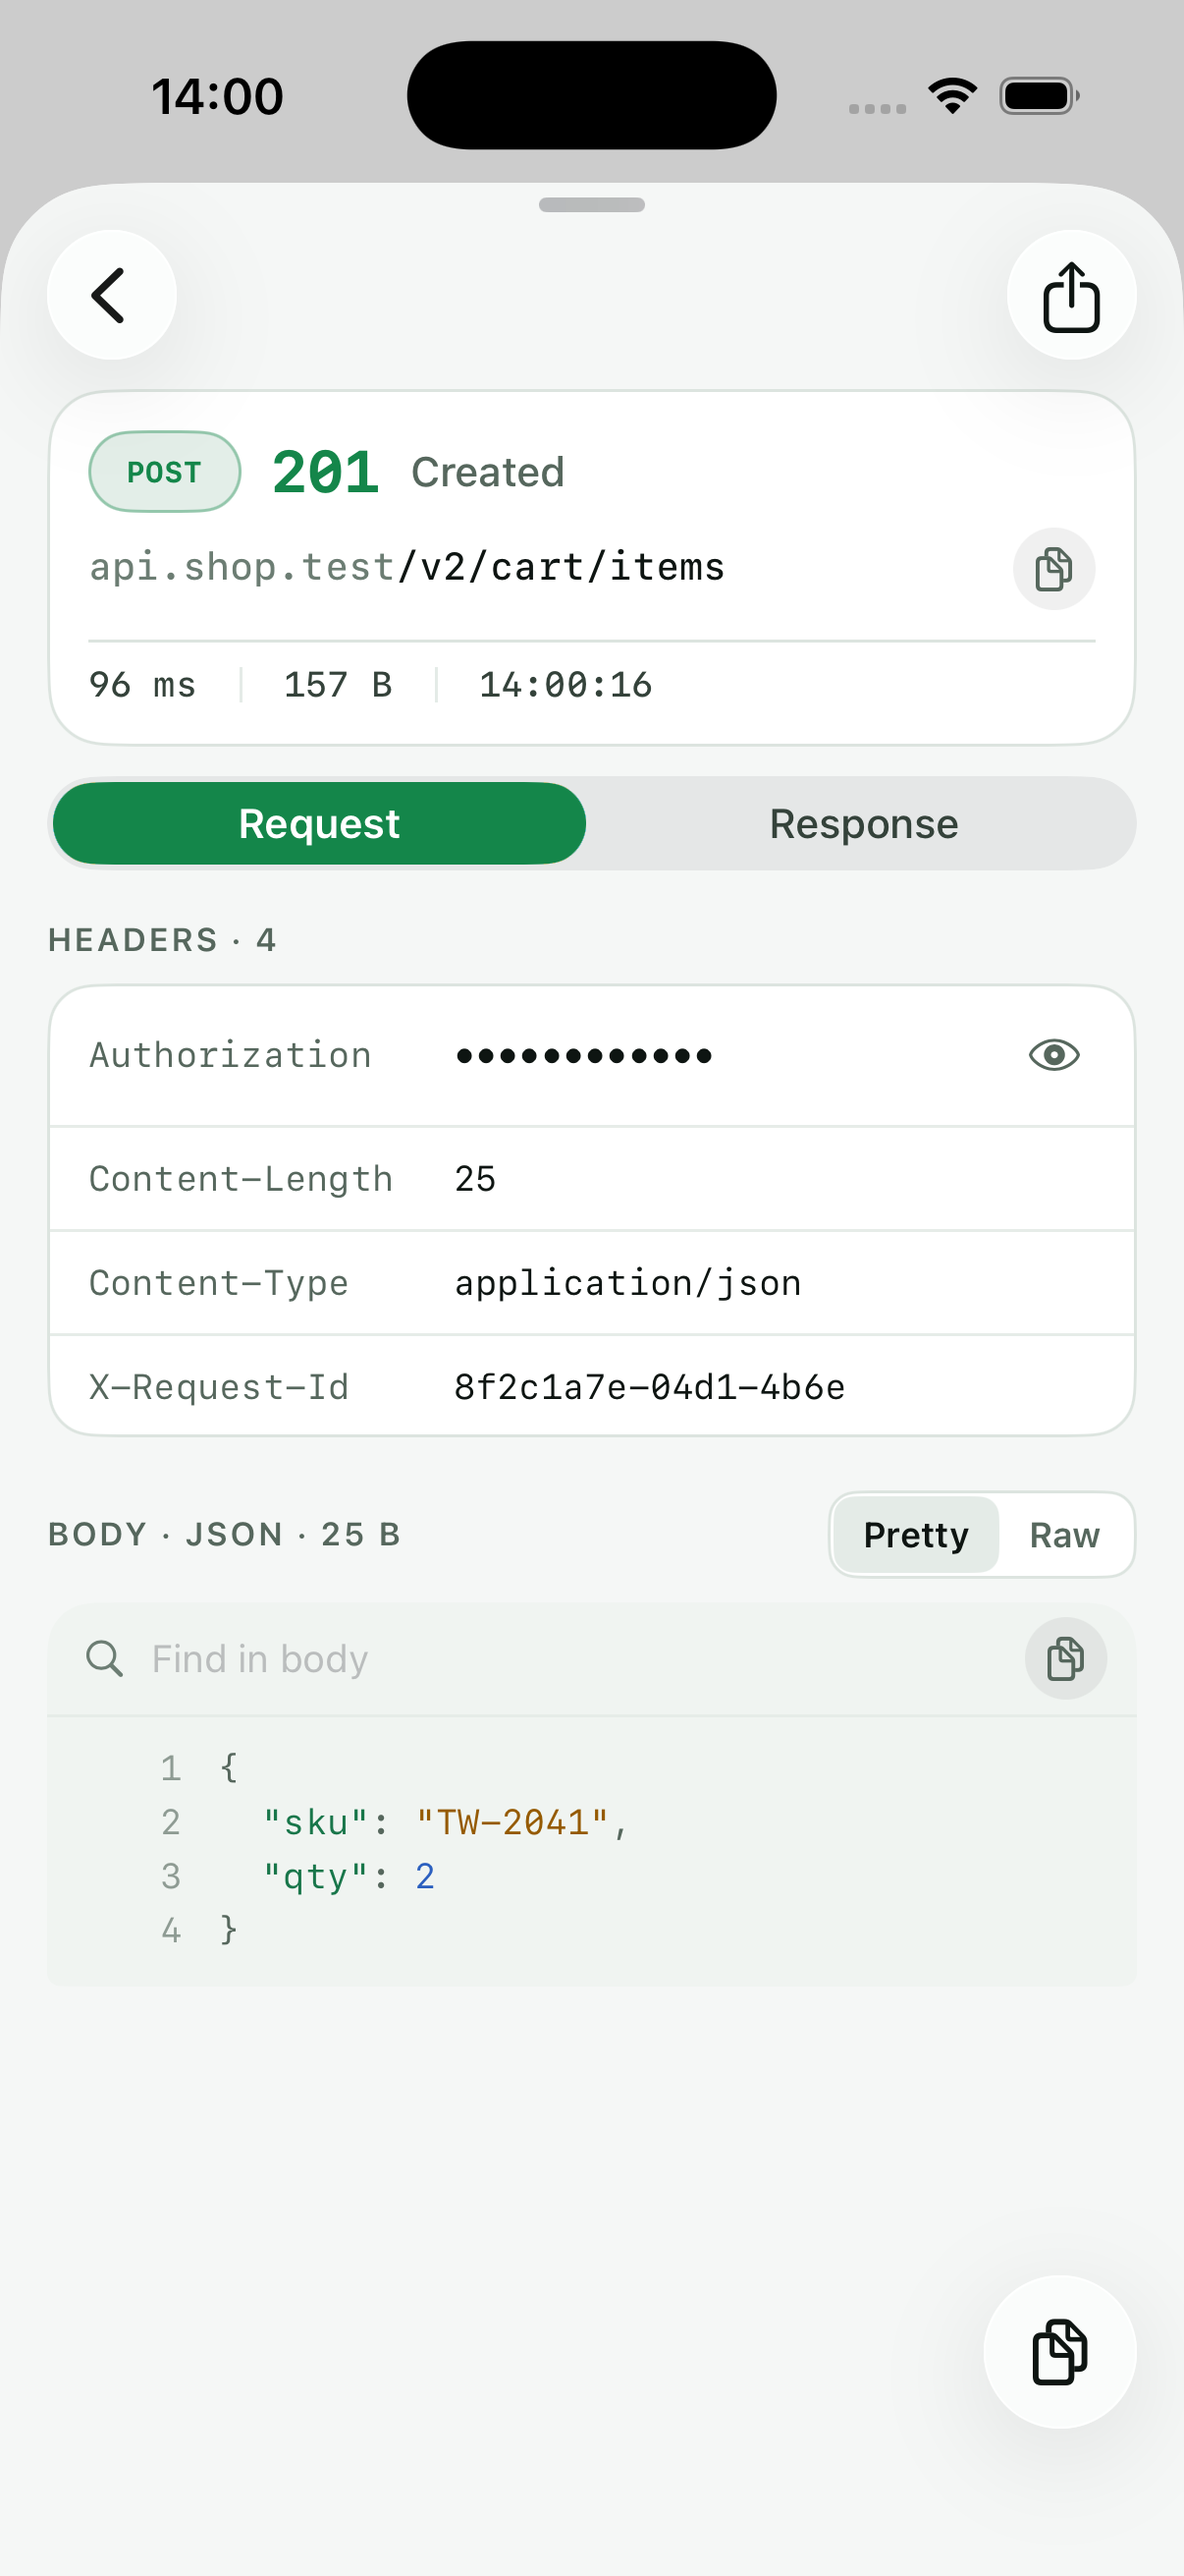
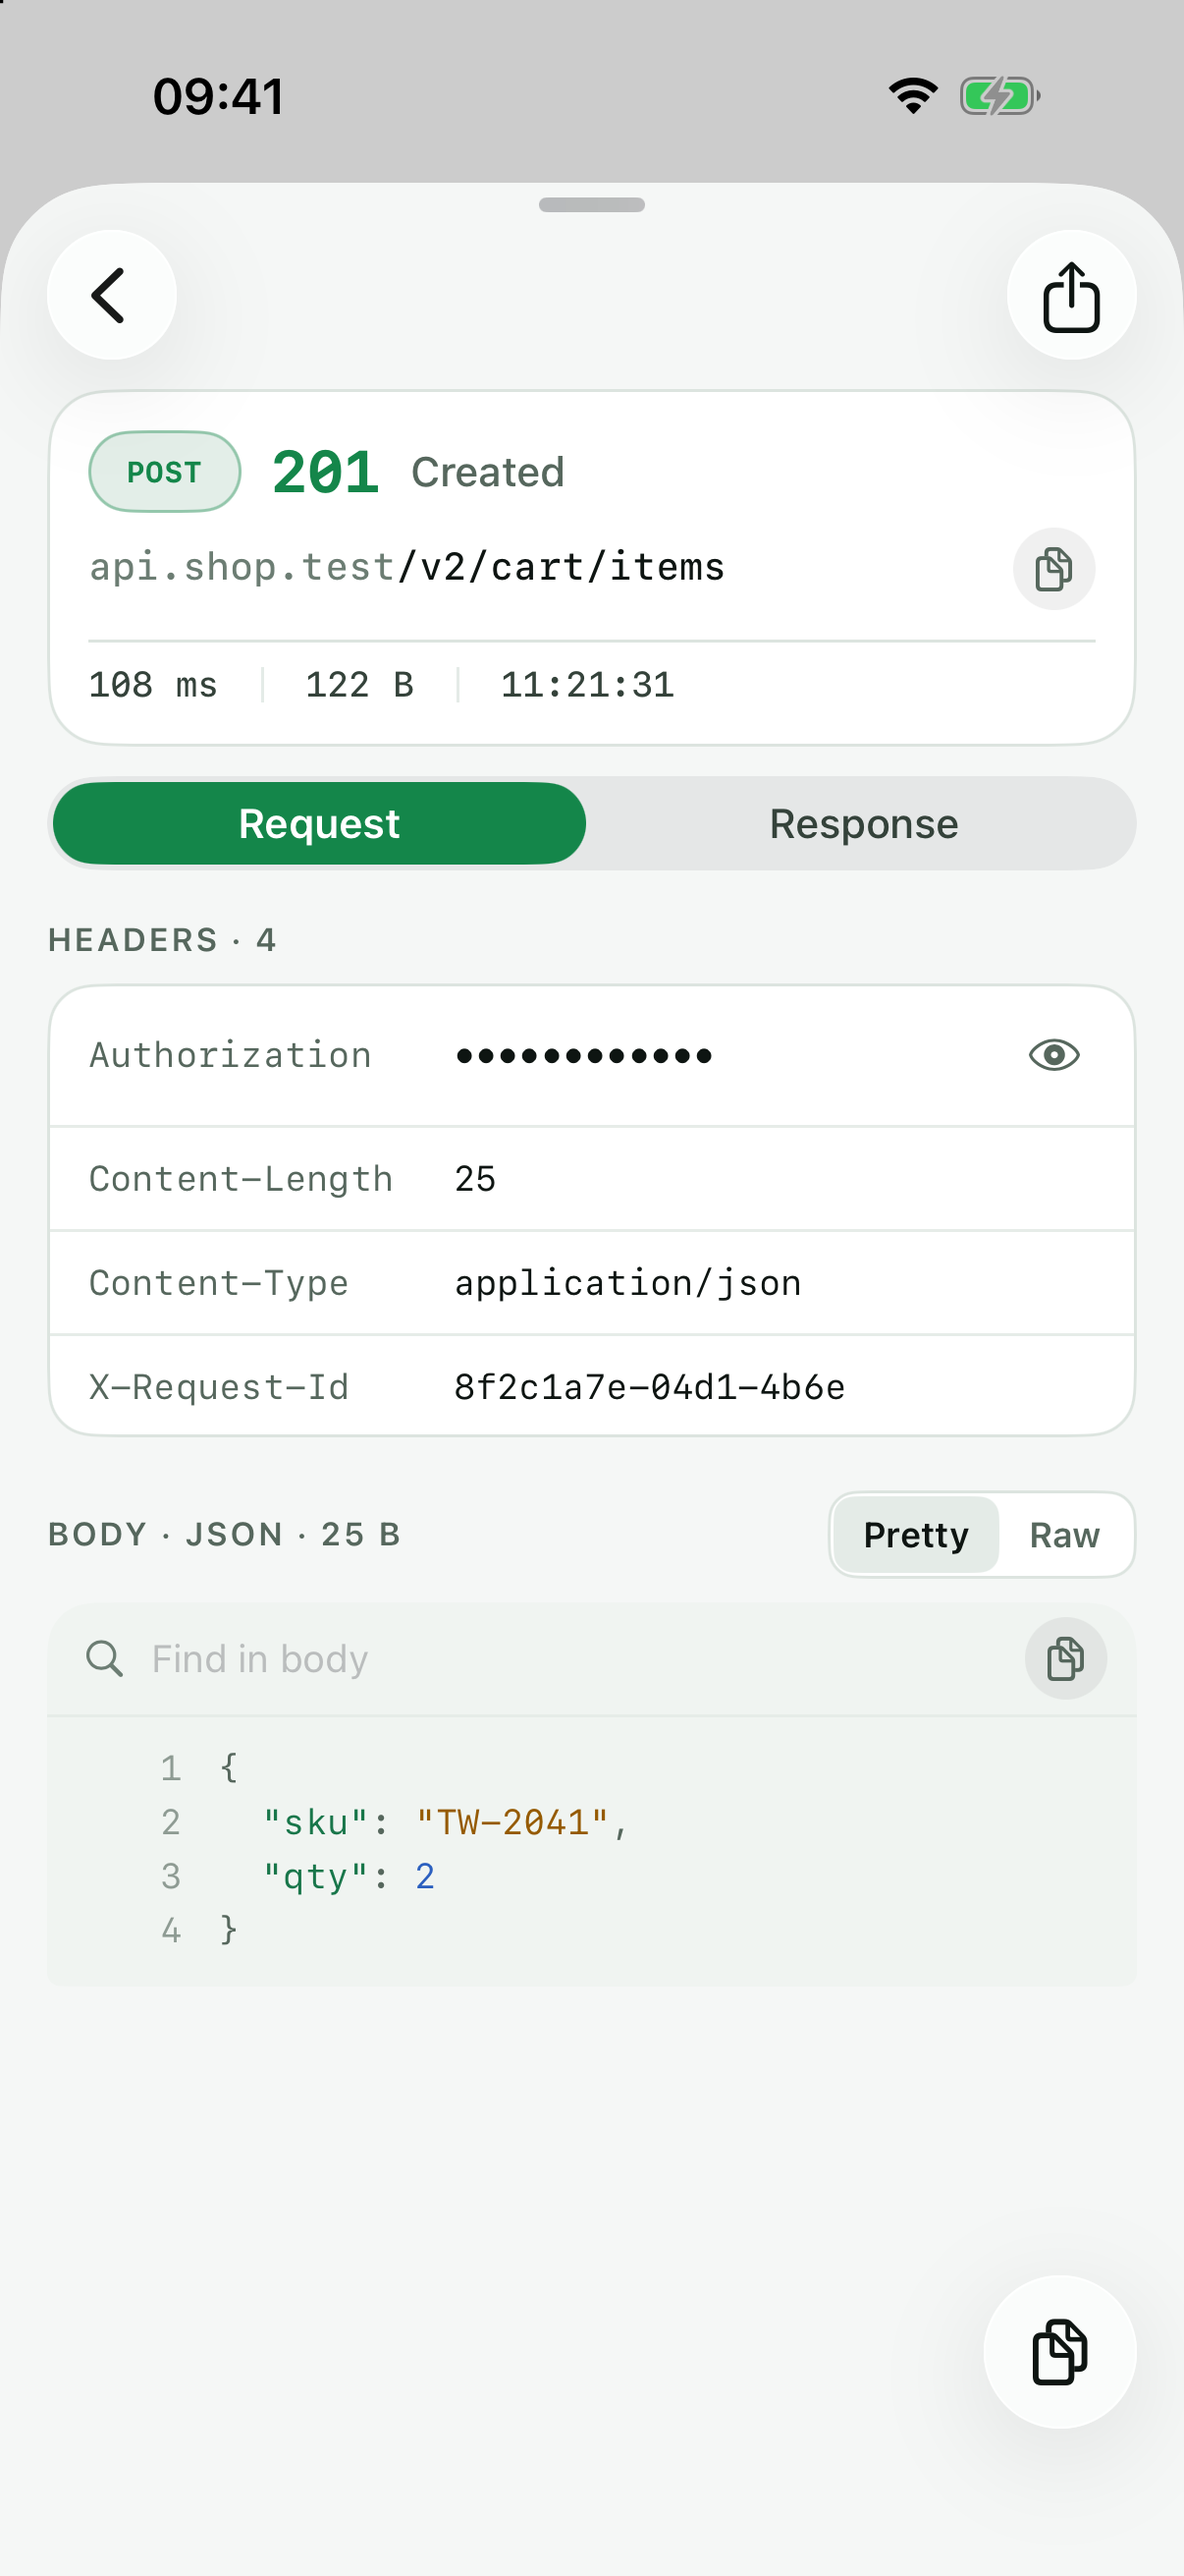
Update the README screenshots

diff --git a/README.md b/README.md
@@ -20,6 +20,10 @@ See what your iOS app sends and logs: network requests and analytics events, eac
 <td align="center"><img src="docs/overview-timeline.png" width="260" alt="The request timeline"><br><sub>Timeline</sub></td>
 <td align="center"><img src="docs/overview-detail.png" width="260" alt="A request's detail screen"><br><sub>Request detail</sub></td>
 </tr>
+<tr>
+<td align="center"><img src="docs/overview-events.png" width="260" alt="The PostHog event timeline"><br><sub>PostHog events</sub></td>
+<td align="center"><img src="docs/overview-event-detail.png" width="260" alt="An event's detail screen"><br><sub>Event detail</sub></td>
+</tr>
 </table>
 
 ## What it is
